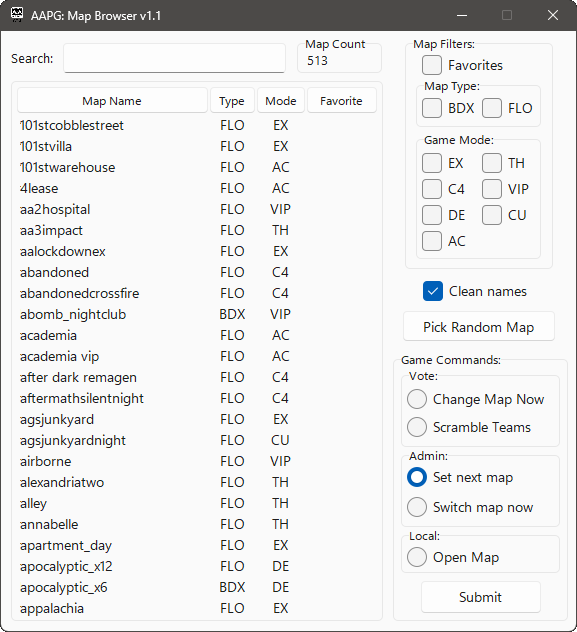
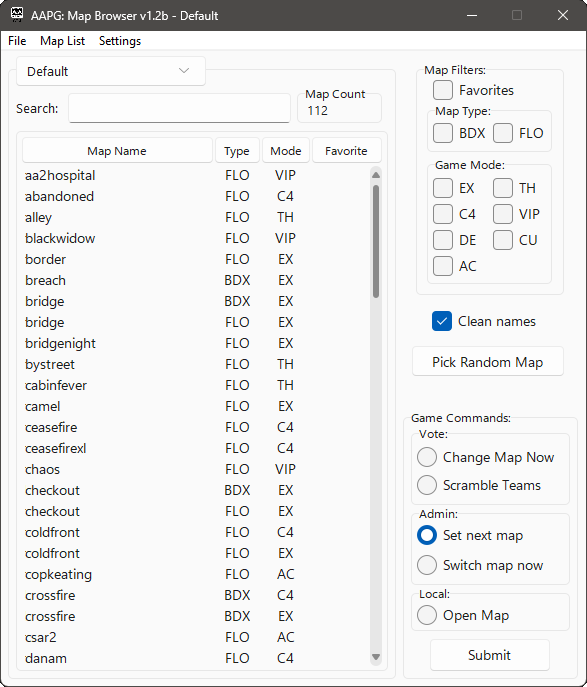
Fixed config.ini. Updated README and screenshot.

diff --git a/README.md b/README.md
@@ -9,9 +9,9 @@ Overview
 --------
 The in-game map browser for America's Army Proving Grounds is horribly inconvenient. The list view is too small and offers no search/favorites/filtering. (hopefully in the next update) This tool aims to solve these shortcomings.
 
-*Note: This tool is primarily intended for server admins, but also includes game commands that do not require admin. Currently, maps lists can only be generated with admin access to a server. Future versions may include the ability to generate a map list for all locally installed maps.*
+*Note: This tool is primarily intended for server admins, but also includes game commands that do not require admin. For example, all installed maps can be listed and opened locally from the tool.*
 
-AAPG Map Browser is a window that runs alongside the game. It interacts with the game via the in-game console. Quite simply, for every submitted command, it focuses the game window, opens the console, types the chosen command, and presses enter. When setup properly it has a list of every available map on a server. 
+AAPG Map Browser is a window that runs alongside the game. It interacts with the game via the in-game console. Quite simply, for every submitted command, it focuses the game window, opens the console, types the chosen command, and presses enter. It does not tamper with game memory in any way. All commands sent to the game console are commands that could be typed by you. This just makes it faster and convenient.
 
 Setup
 -------
@@ -19,31 +19,39 @@ Windows:
 
  1. Download the latest release and unzip it where you would like to
    keep the application.
- 2. Open the game, connect to a server, login as admin. Wait 10-15 seconds. Close game.
- 3. Open a Windows Terminal window and navigate to the unzipped folder.
 
-    ```bash
-    cd 'C:\Users\(Username)\Desktop\AAPG Map Browser v1.1\'
-    ```
-    
- 5. Run MapsFileBuilder.exe with AAClient.log as the only argument.
 
-    ```bash
-    .\MapsFileBuilder.exe 'C:\Users\(Username)\Documents\My Games\America''s Army Proving Grounds\AAGame\Logs\AAClient.log'
-    ```
- 
- 7. If successful, a maps.ini file will be created or overwritten in the root directory of the application.
- 8. Open AAPG Map Browser.exe and verify that Maps Count matches the number of maps on the server.
+ 2. Run "AAPG Map Browser.exe".
 
 Usage
 -------
-The application is fairly straight-forward once setup. Map Filters excludes maps from the list that do not meet the selected criteria. Clean names removes the unique identifier number Steam uses on the map files to make it easier to read. Pick Random Map randomly highlights a map from the current list. It does not submit anything to the game.
+The application use is fairly straight-forward. The dropdown in the upper left is the currently selected map list. You can create a new one under the 'File' menu with 'New', create a copy of the current list with 'Save As', or keep 'Default' and overwrite it. This allows for creating lists for multiple servers where available maps may differ.
 
-Favorites can be toggled by right-clicking on a map in the list view. These can then be filtered with the Favorites filter.
+Creating Map Lists:
 
-Game Commands are used to send commands to the in-game console. The Vote section does not require admin and will work without it if the server allows it. Admin commands obviously require logging in as admin prior to submission. The Open Map option under Local will open a map locally on the client.
+If you would like to create your own map list, a couple of paths need to be set in 'Settings' under 'Folder Paths'. The first is the path to 'AAClient.log'. This is used to extract map names for a server for which you have admin access. The second is 'AA Workshop Content'. This is the folder that contains all of your locally downloaded Steam Workshop maps.
 
-*Note: After logging in as admin it may take 10-15 seconds before the server enumerates the available maps to the client. An attempted map change before this happens will fail. Also, it is unconfirmed but possible that a map change command submitted just as the map change countdown completes may result in a server crash or unjoinable state. This has been experienced once, but it may have been a coincidence. Try to submit a map change before the timer gets below 1.*
+*Note: If you are a server admin and would like to create a list of maps for your server, understand that this software cannot see your admin password, nor will it ever ask for it. Logging in as admin on a server merely dumps the full list of maps on the server to AAClient.log. This software parses that file and stores the list.*
+
+Server Map Lists:
+
+Open the game, join your server, login as admin, wait 10-15 seconds, and then close the game. If done properly, the game server will have sent a list of all available maps to your AAClient.log. If the AACLient.log path has been set correctly (as described above), navigate to 'Map List' -> 'Get Server Maps'. This will refresh the currently selected map list with all the available maps for your server. You can save the list with 'File' -> 'Save'. This doesn't need to be done again until the maps on the server have changed.
+
+Local Map Lists:
+
+If the workshop content path has been set correctly (as described above), navigate to 'Map List' -> 'Get Local Maps'. This will refresh the currently selected map list with all the available maps on your computer. You can save the list with 'File' -> 'Save'.
+
+Map Filters:
+
+Map Filters excludes maps from the currently selected list that do not meet the selected criteria. Clean names removes the unique identifier number Steam uses on the map files to make it easier to read. Pick Random Map randomly highlights a map from the current list. It does not submit anything to the game.
+
+Favorites can be toggled by right-clicking on a map in the list view. These can then be filtered with the Favorites filter. Favorites are currently global. Your saved favorites will appear for any selected map list.
+
+Game Commands:
+
+Game Commands are used to send commands to the in-game console. The Vote section does not require admin and will work without it if the server allows it. Admin commands obviously require logging in as admin in game prior to submission (otherwise they will fail silently). The Open Map option under Local will open a map locally on the client.
+
+*Note: After logging in as admin it may take 10-15 seconds before the server enumerates the available maps to the game. An attempted map change before this happens will fail. Also, it is unconfirmed but possible that a map change command submitted just as the map change countdown completes may result in a server crash or unjoinable state. This has been experienced once, but it may have been a coincidence. Try to submit a map change before the timer gets below 1.*
 
 Disclaimer
 -------
